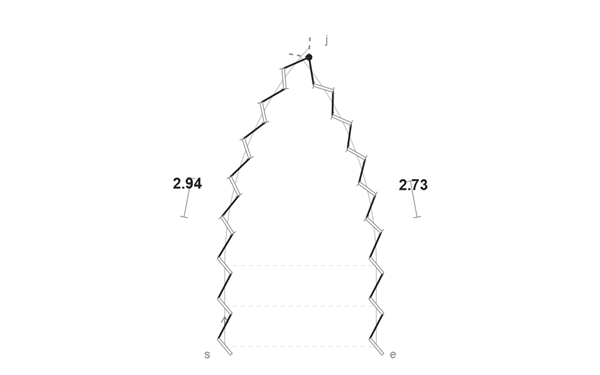
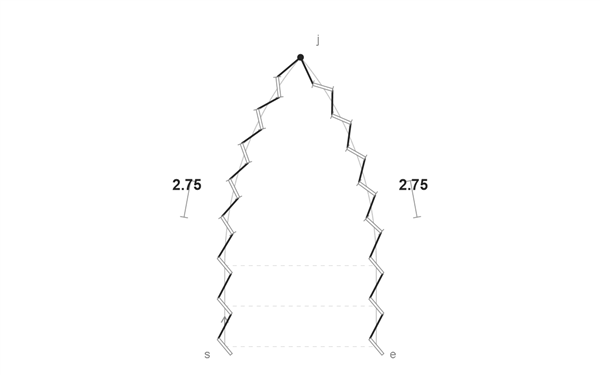
Place JLC reference hole at the curve vertex

diff --git a/examples/counter_examples/README.md b/examples/counter_examples/README.md
@@ -19,7 +19,7 @@ Jaeger-LeCoultre / Casa Fagliano source photograph: `jaeger_lecoultre_fagliano.p
 | `loewe-hanger-autostitch` | `ILL-LOEWE-HANGER` | Same three guides with two A6 corner holes and a fitted top span. |
 | `lv-speedy-chape-reference` | `ILL-LV-SPEEDY-CHAPE` | Closed pentagon, five shared corner slits, no mirrored runs. |
 | `lv-speedy-chape-autostitch` | `ILL-LV-SPEEDY-CHAPE` | Same pentagon with five A6 round holes, fitted spans and closure. |
-| `fagliano-tip-compression` | `ILL-FAGLIANO-TIP` | Aligned straight pairs; left nominal curve overruns its reserved station, then compresses equally; right follows; unequal curved chords and final thread. |
+| `fagliano-tip-compression` | `ILL-FAGLIANO-TIP` | Aligned straight pairs; left nominal curve overruns its reserved station, then compresses equally; right follows; equal curved chords into a fixed vertex hole and final thread. |
 | `fagliano-tip-autostitch` | `ILL-FAGLIANO-AUTOSTITCH` | Static comparison on identical guides: minimum adjusted gaps, one on the left and four on the right. |
 
 All use a $600\times375$ canvas. The Sellier corner and Fagliano tip GIFs loop with a two-second final thread hold. Other case comparisons are static SVG/PNG, with a common scale within each pair. Geometry and sequence come from `scenes.mjs`; parameters live in `tests/cases.json`.
@@ -49,11 +49,11 @@ Outputs: `examples/counter_examples/assets/`. Temporary frames: `output/counter_
 - Loewe Autostitch: nominal corner steps fix the top neighbours; the intervening gap is approximately $3.249\,\mathrm{mm}$, within the adjustment bounds. The vertical rows use three nominal steps from each virtual centre, with start/end positions inside the same guides. A6 geometry is analytic; the top fit uses the independent selector.
 - Speedy: the five vertices in the catalog define a schematic closed pentagon. Ordinary slits use $+40^\circ$ lean throughout both diagrams. Reference corners use the midpoint orientation between the incident rows; each side has evenly spaced reference openings. The exact corner axes are illustrative.
 - Speedy Autostitch: intersect the incoming minus-tip and outgoing plus-tip loci at each vertex, reserve nominal corner steps, and fit all five intervening spans with the independent selector. Closure reuses the starting opening. The drawing contains five round holes and twenty-one real slits.
-- Fagliano: symmetric circular guides of radius $24\,\mathrm{mm}$ and sweep $40^\circ$, with three aligned straight openings per side. Local lean stays $+40^\circ$ along the complete route. The selected virtual-tip loci locate one shared round hole; handedness makes the two reserved stations asymmetric.
-- Fagliano fitting: keep the first curved gap and virtual-to-real corner step nominal. Compress four intervening gaps equally per arm, to approximately $2.9368\,\mathrm{mm}$ and $2.7290\,\mathrm{mm}$. This is the requested equal-redistribution construction, not the production solver's minimum-adjustment-block policy. The dimensions and compression sequence are illustrative, not measurements of the photograph.
+- Fagliano: symmetric circular guides of radius $24\,\mathrm{mm}$ and sweep $40^\circ$, with three aligned straight openings per side. Local lean stays $+40^\circ$ along the complete route. The reference hole is fixed at the guide vertex; no virtual slits are used in that reconstruction.
+- Fagliano fitting: keep the first curved gap nominal. Compress the next five gaps equally per arm, including the last gap to the vertex hole, to approximately $2.7491\,\mathrm{mm}$ on both sides. This is the requested equal-redistribution construction, not the production solver's minimum-adjustment-block policy. The dimensions and compression sequence are illustrative, not measurements of the photograph.
 
-Fagliano timing: establish three straight pairs; reveal each nominal curved run, hold its overrun, then interpolate the four free gaps together. Finish the left arm before starting the right. Chord labels update during compression; straight centres, curve entry gaps and nominal corner steps remain fixed in length. The final frame adds all thread at once. PNG and SVG retain that final state.
+Fagliano timing: establish three straight pairs; reveal each nominal curved run, hold its overrun, then interpolate the five remaining gaps together. Finish the left arm before starting the right. Chord labels update during compression; straight centres stay fixed and curve entry gaps remain nominal. The final frame adds all thread at once. PNG and SVG retain that final state.
 
-Fagliano Autostitch comparison: apply the independent circular fit selector between the protected entry and corner neighbours. The left free span needs one adjusted gap of approximately $2.7470\,\mathrm{mm}$, placed centrally with the half-index tie toward the route end. The right needs four adjusted gaps of approximately $2.7290\,\mathrm{mm}$. Both retain the reference guides, straight stations, opening counts and shared hole. This checks the documented fitting policy analytically; it is not native CAD evidence.
+Fagliano Autostitch comparison: apply the independent circular fit selector between the protected entry and corner neighbours. The left free span needs one adjusted gap of approximately $2.7470\,\mathrm{mm}$, placed centrally with the half-index tie toward the route end. The right needs four adjusted gaps of approximately $2.7290\,\mathrm{mm}$. Both retain the reference guides, straight stations and real opening counts. Autostitch locates its hole at the selected virtual-tip intersection, slightly right of the vertex, producing asymmetric reserved stations and different fits. This checks the documented fitting policy analytically; it is not native CAD evidence.
 
 Interpretation notes are collected in the examples document. These figures use analytic geometry, not a native plugin run. The diagonal-slit alternative is distinct from A6; the H remains external decoration rather than evidence of support for arbitrary fixed decorative holes.

diff --git a/docs/counter_examples/EXAMPLES_skeleton.md b/docs/counter_examples/EXAMPLES_skeleton.md
@@ -71,15 +71,15 @@ The **handle chape** is the leather tab attaching the handle hardware to the bag
 [Reference photograph](../../examples/counter_examples/jaeger_lecoultre_fagliano.png): the pointed end of the right strap.
 
 - The two straight runs have horizontally aligned holes and the same stitch handedness
-- A round hole joins the runs at the tip
+- A round hole sits exactly at the vertex where the two curves meet
 - Assume compression is confined to the curves, distributed equally across each arm's free gaps
-- The straight rows stay aligned; the curved rows need different chord lengths: approximately $2.94\,\mathrm{mm}$ and $2.73\,\mathrm{mm}$ for $p=3\,\mathrm{mm}$
+- Symmetric guides and equal compression give the same curved chord on both sides: approximately $2.75\,\mathrm{mm}$ for $p=3\,\mathrm{mm}$
 
-**Reference construction** — equal compression across each curve's free gaps.
+**Reference construction** — equal compression through each curve to the fixed vertex hole.
 
 ![Aligned strap sides with separate compression through each curve into a shared round hole](../../examples/counter_examples/assets/fagliano-tip-compression.gif)
 
-**Autostitch construction** — the same guides, straight rows and round hole; adjust the fewest gaps within the pitch bounds.
+**Autostitch construction** — the same guides and straight rows. The virtual slit tips locate the hole slightly to the right of the vertex; adjust the fewest gaps within the pitch bounds.
 
 - Left: one adjusted gap of approximately $2.75\,\mathrm{mm}$; the remaining gaps stay nominal
 - Right: four adjusted gaps of approximately $2.73\,\mathrm{mm}$
